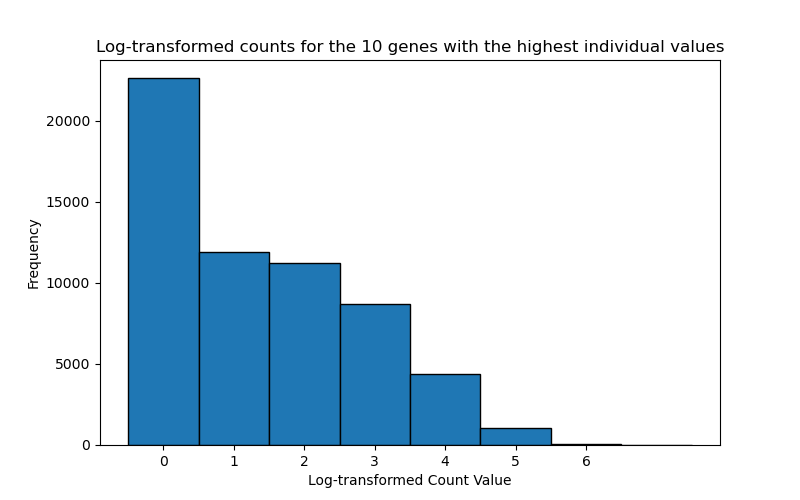
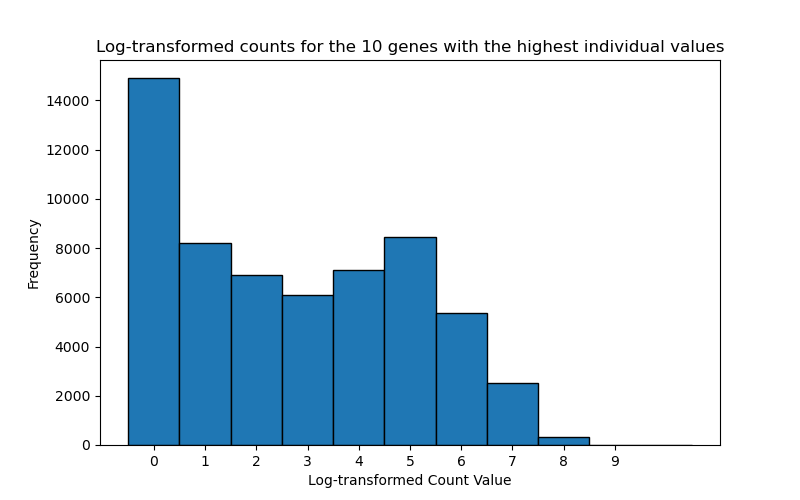
nya historgamfiler

diff --git a/histograms/histogram_separate_genes.py b/histograms/histogram_separate_genes.py
@@ -3,8 +3,8 @@ import pandas as pd
 import matplotlib.pyplot as plt
 
 count_matrix = "/storage/koningen/count_matrix.tsv"
-highest_raw_counts = "/storage/koningen/ranked_counts/highest_raw_counts.tsv"
-#lowest_raw_counts = "/storage/koningen/ranked_counts/lowest_raw_counts.tsv"
+#highest_raw_counts = "/storage/koningen/ranked_counts/highest_raw_counts.tsv"
+lowest_raw_counts = "/storage/koningen/ranked_counts/lowest_raw_counts.tsv"
 
 num_top_rows = 10
 max_zero_percentage = 0.5
@@ -25,17 +25,17 @@ with open(count_matrix, "r") as infile:
         # Only include rows with more than 75% non-zero
         if zero_percentage <= max_zero_percentage:
            #max_value = max(numeric_values)  # Find the maximum value in the row
-           max_value = max(numeric_values) # Find the minimum value in the row
-           values.append((identifier, max_value))  # Store as tuple (identifier, max_value)
+           min_value = min(numeric_values) # Find the minimum value in the row
+           values.append((identifier, min_value))  # Store as tuple (identifier, max_value)
 
 # Sort
-values.sort(key=lambda x: x[1], reverse=False)
+values.sort(key=lambda x: x[1], reverse=False) # High to low --> True
 
 # Get the top N identifiers based on the highest individual values
 top_identifiers = {identifier for identifier, _ in values[:num_top_rows]}
 
 # Filter the original file to keep only the rows with identifiers in the selected list
-with open(count_matrix, "r") as infile, open(highest_raw_counts, "w") as outfile:
+with open(count_matrix, "r") as infile, open(lowest_raw_counts, "w") as outfile:
     header = next(infile)  # Read and write the header
     outfile.write(header)
 
@@ -48,17 +48,17 @@ with open(count_matrix, "r") as infile, open(highest_raw_counts, "w") as outfile
 
 
 #### Histogram #####
-df = pd.read_csv(highest_raw_counts, sep="\t", skiprows=1).iloc[:, 1:] 
-all_values = df.values.flatten()
+# df = pd.read_csv(highest_raw_counts, sep="\t", skiprows=1).iloc[:, 1:] 
+# all_values = df.values.flatten()
 
-# Apply transformation
-all_values = np.log(all_values + 1)
+# # Apply transformation
+# all_values = np.log(all_values + 1)
 
-# Plot histogram
-plt.figure(figsize=(8, 5))
-plt.hist(all_values, bins=np.arange(all_values.max() + 2) - 0.5, edgecolor='black')
-plt.xlabel("Log-transformed Count Value")
-plt.ylabel("Frequency")
-plt.title(f"Log-transformed counts for the {num_top_rows} genes with the highest individual values")
-plt.xticks(range(int(all_values.max()) + 1))  # Ensure discrete values on x-axis
-plt.savefig("histograms/bilder/genes_filtered/histogram_genes_highest_individual_50.png")
+# # Plot histogram
+# plt.figure(figsize=(8, 5))
+# plt.hist(all_values, bins=np.arange(all_values.max() + 2) - 0.5, edgecolor='black')
+# plt.xlabel("Log-transformed Count Value")
+# plt.ylabel("Frequency")
+# plt.title(f"Log-transformed counts for the {num_top_rows} genes with the highest individual values")
+# plt.xticks(range(int(all_values.max()) + 1))  # Ensure discrete values on x-axis
+# plt.savefig("histograms/bilder/genes_filtered/histogram_genes_highest_individual_50.png")

diff --git a/histograms/histogram_sum_genes.py b/histograms/histogram_sum_genes.py
@@ -3,8 +3,8 @@ import pandas as pd
 import matplotlib.pyplot as plt
 
 count_matrix = "/storage/koningen/count_matrix.tsv"
-#highest_raw_counts = "/storage/koningen/ranked_counts/highest_sum_counts.tsv"
-lowest_raw_counts = "/storage/koningen/ranked_counts/lowest_sum_counts.tsv"
+highest_raw_counts = "/storage/koningen/ranked_counts/highest_sum_counts.tsv"
+#lowest_raw_counts = "/storage/koningen/ranked_counts/lowest_sum_counts.tsv"
 
 num_top_rows = 10
 max_zero_percentage = 0.5
@@ -28,13 +28,13 @@ with open(count_matrix, "r") as infile:
             sums.append((identifier, row_sum))  # Store as tuple (identifier, sum)
 
 # Sort sums
-sums.sort(key=lambda x: x[1], reverse=False)  # False for ascending, true for decending
+sums.sort(key=lambda x: x[1], reverse=True)  # False for ascending, true for decending
 
 # Get the top N identifiers based on sum
 top_identifiers = {identifier for identifier, _ in sums[:num_top_rows]}
 
 # Filter the original file to keep only the rows with identifiers in the selected list
-with open(count_matrix, "r") as infile, open(lowest_raw_counts, "w") as outfile:
+with open(count_matrix, "r") as infile, open(highest_raw_counts, "w") as outfile:
     header = next(infile)  # Read and write the header
     outfile.write(header)
 
@@ -48,17 +48,17 @@ with open(count_matrix, "r") as infile, open(lowest_raw_counts, "w") as outfile:
 
 #### Histogram #####
 
-df = pd.read_csv(lowest_raw_counts, sep="\t", header=0).iloc[:, 1:]  # Skip first column (identifier)
-all_values = df.values.flatten()
+# df = pd.read_csv(lowest_raw_counts, sep="\t", header=0).iloc[:, 1:]  # Skip first column (identifier)
+# all_values = df.values.flatten()
 
-# Apply transformation
-all_values = np.log(all_values + 1)
+# # Apply transformation
+# all_values = np.log(all_values + 1)
 
-# Plot histogram
-plt.figure(figsize=(8, 5))
-plt.hist(all_values, bins=np.arange(all_values.max() + 2) - 0.5, edgecolor='black')
-plt.xlabel("Log-transformed Count Value")
-plt.ylabel("Frequency")
-plt.title(f"Log-transformed counts for the {num_top_rows} least abundant genes")
-plt.xticks(range(int(all_values.max()) + 1))  # Ensure discrete values on x-axis
-plt.savefig("histograms/bilder/genes_filtered/histogram_genes_lowest_sum_50.png")
+# # Plot histogram
+# plt.figure(figsize=(8, 5))
+# plt.hist(all_values, bins=np.arange(all_values.max() + 2) - 0.5, edgecolor='black')
+# plt.xlabel("Log-transformed Count Value")
+# plt.ylabel("Frequency")
+# plt.title(f"Log-transformed counts for the {num_top_rows} least abundant genes")
+# plt.xticks(range(int(all_values.max()) + 1))  # Ensure discrete values on x-axis
+# plt.savefig("histograms/bilder/genes_filtered/histogram_genes_lowest_sum_50.png")
